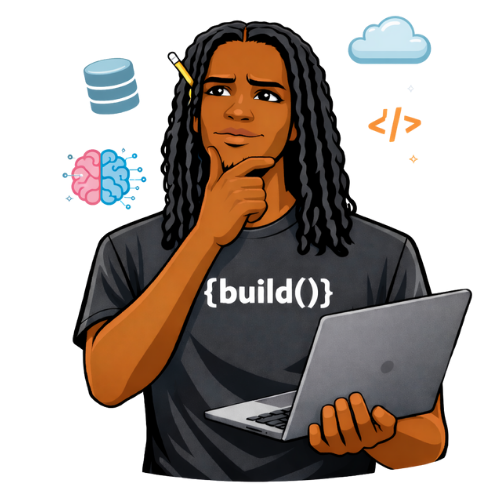
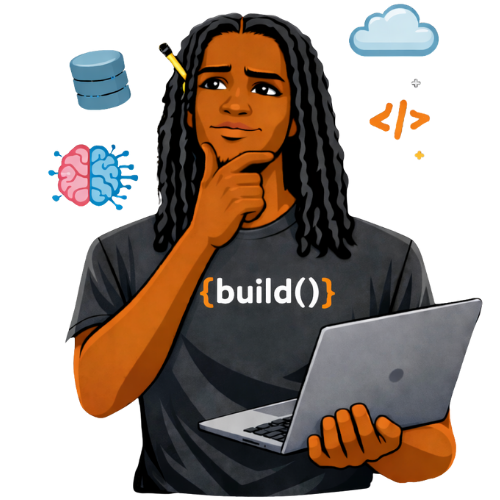
Added a contact section with contact image. Also replace previous dev images for cohesion

diff --git a/src/components/Contact.jsx b/src/components/Contact.jsx
@@ -1,0 +1,160 @@
+import DevContactPic from "../assets/CartoonDevContact.png";
+
+const Contact = ({ darkMode }) => {
+  return (
+    <section
+      id="contact"
+      style={{
+        backgroundColor: darkMode ? "#111827" : "#f9fafb",
+      }}
+      className="py-12 sm:py-16 md:py-20 lg:py-24 overflow-hidden"
+    >
+      <div className="container mx-auto px-4 sm:px-6 lg:px-8">
+        <div className="text-center mb-8 sm:mb-10 md:mb-12" data-aos="fade-up">
+          <h2
+            className="text-2xl sm:text-3xl md:text-4xl font-bold mb-2 sm:mb-3"
+            style={{
+              color: darkMode ? "white" : "#1f2937",
+            }}
+          >
+            Get In
+            <span
+              style={{
+                background: "linear-gradient(to right, #f97316, #f59e0b)",
+                WebkitBackgroundClip: "text",
+                backgroundClip: "text",
+                color: "transparent",
+              }}
+            >
+              Touch
+            </span>
+          </h2>
+          <p
+            className="text-base sm:text-lg md:text-xl"
+            style={{
+              color: darkMode ? "#d1d5db" : "#6b7280",
+            }}
+          >
+            Let's discuss your project
+          </p>
+        </div>
+        <div className="grid grid-cols-1 lg:grid-cols-2 gap-6 sm:gap-8 md:gap-10 items-center">
+          <div
+            className="flex justify-center order-2 lg:order-1"
+            data-aos="fade-right"
+          >
+            <img
+              src={DevContactPic}
+              alt="Contact Picture"
+              className="w-full max-w-xs sm:max-w-sm lg:max-w-md h-auto object-contain"
+            />
+          </div>
+
+          <form
+            style={{
+              background: darkMode
+                ? "linear-gradient(to right, #1f2937, #111827)"
+                : "linear-gradient(to right, #ffffff, #f9fafb)",
+              borderColor: darkMode ? "#374151" : "#e5e7eb",
+            }}
+            className="rounded-xl p-4 sm:p-5 md:p-6 lg:p-8 border
+shadow-lg order-1 lg:order-2"
+            data-aos="fade-left"
+          >
+            <div className="grid grid-cols-1 sm:grid-cols-2 gap-3 sm:gap-4 mb-3 sm:mb-4">
+              {/* First Name */}
+              <input
+                type="text"
+                placeholder="First Name"
+                style={{
+                  backgroundColor: darkMode ? "#374151" : "#faede3",
+                  borderColor: darkMode ? "#4b5563" : "#d1d5db",
+                  color: darkMode ? "white" : "#1f2937",
+                }}
+                className="w-full px-3 sm:px-4 py-2 sm:py-3
+rounded-lg text-sm sm:text-base
+focus:border-orange-500 focus:ring-2
+focus:ring-orange-500/20 transition-all"
+                required
+              />
+              {/* Last Name */}
+              <input
+                type="text"
+                placeholder="Last Name"
+                style={{
+                  backgroundColor: darkMode ? "#374151" : "#faede3",
+                  borderColor: darkMode ? "#4b5563" : "#d1d5db",
+                  color: darkMode ? "white" : "#1f2937",
+                }}
+                className="w-full px-3 sm:px-4 py-2 sm:py-3
+rounded-lg text-sm sm:text-base
+focus:border-orange-500 focus:ring-2
+focus:ring-orange-500/20 transition-all"
+                required
+              />
+            </div>
+            {/* Email Address */}
+            <input
+              type="email"
+              placeholder="Email Address"
+              style={{
+                backgroundColor: darkMode ? "#374151" : "#faede3",
+                borderColor: darkMode ? "#4b5563" : "#d1d5db",
+                color: darkMode ? "white" : "#1f2937",
+              }}
+              className="w-full px-3 sm:px-4 py-2 sm:py-3
+rounded-lg text-sm sm:text-base
+focus:border-orange-500 focus:ring-2
+focus:ring-orange-500/20 transition-all mb-3 sm:mb-4"
+              required
+            />
+            {/* Telephone Number */}
+            <input
+              type="tel"
+              placeholder="Phone Number"
+              style={{
+                backgroundColor: darkMode ? "#374151" : "#faede3",
+                borderColor: darkMode ? "#4b5563" : "#d1d5db",
+                color: darkMode ? "white" : "#1f2937",
+              }}
+              className="w-full px-3 sm:px-4 py-2 sm:py-3
+rounded-lg text-sm sm:text-base
+focus:border-orange-500 focus:ring-2
+focus:ring-orange-500/20 transition-all mb-3 sm:mb-4"
+              required
+            />
+            {/* Message */}
+            <textarea
+              rows="4"
+              placeholder="Your Message"
+              style={{
+                backgroundColor: darkMode ? "#374151" : "#faede3",
+                borderColor: darkMode ? "#4b5563" : "#d1d5db",
+                color: darkMode ? "white" : "#1f2937",
+              }}
+              className="w-full px-3 sm:px-4 py-2 sm:py-3
+rounded-lg text-sm sm:text-base
+focus:border-orange-500 focus:ring-2
+focus:ring-orange-500/20 transition-all mb-4 sm:mb-6 resize-none"
+              required
+            />
+            <button
+              type="submit"
+              style={{
+                background: "linear-gradient(to right, #f97316, #f59e0b)",
+              }}
+              className="w-full py-2 sm:py-3 text-white
+  font-semibold rounded-lg text-sm sm:text-base
+  hover:shadow-lg hover:shadow-orange-500/25
+  hover:scale-[1.02] transition-all"
+            >
+              Send Message
+            </button>
+          </form>
+        </div>
+      </div>
+    </section>
+  );
+};
+
+export default Contact;

diff --git a/src/App.jsx b/src/App.jsx
@@ -6,6 +6,7 @@ import Hero from "./components/Hero";
 import About from "./components/About";
 import Skills from "./components/Skills";
 import Projects from "./components/Projects";
+import Contact from "./components/Contact";
 
 function App() {
   const [darkMode, setDarkMode] = useState(true);
@@ -42,6 +43,7 @@ function App() {
       <About darkMode={darkMode} />
       <Skills darkMode={darkMode} />
       <Projects darkMode={darkMode} />
+      <Contact darkMode={darkMode} />
     </div>
   );
 }

diff --git a/src/components/Hero.jsx b/src/components/Hero.jsx
@@ -2,7 +2,7 @@ import linkedIn from "../assets/linkedIn.png";
 import github from "../assets/github.png";
 import CV from "../assets/Emerson_ResumeDEV 2.pdf";
 import { DownloadIcon, Mail } from "lucide-react";
-import Avatar from "../assets/CartoonDev.png"
+import Avatar from "../assets/CartoonDevPic.png"
 
 const Hero = ({ darkMode }) => {
   const socialIcons = [
